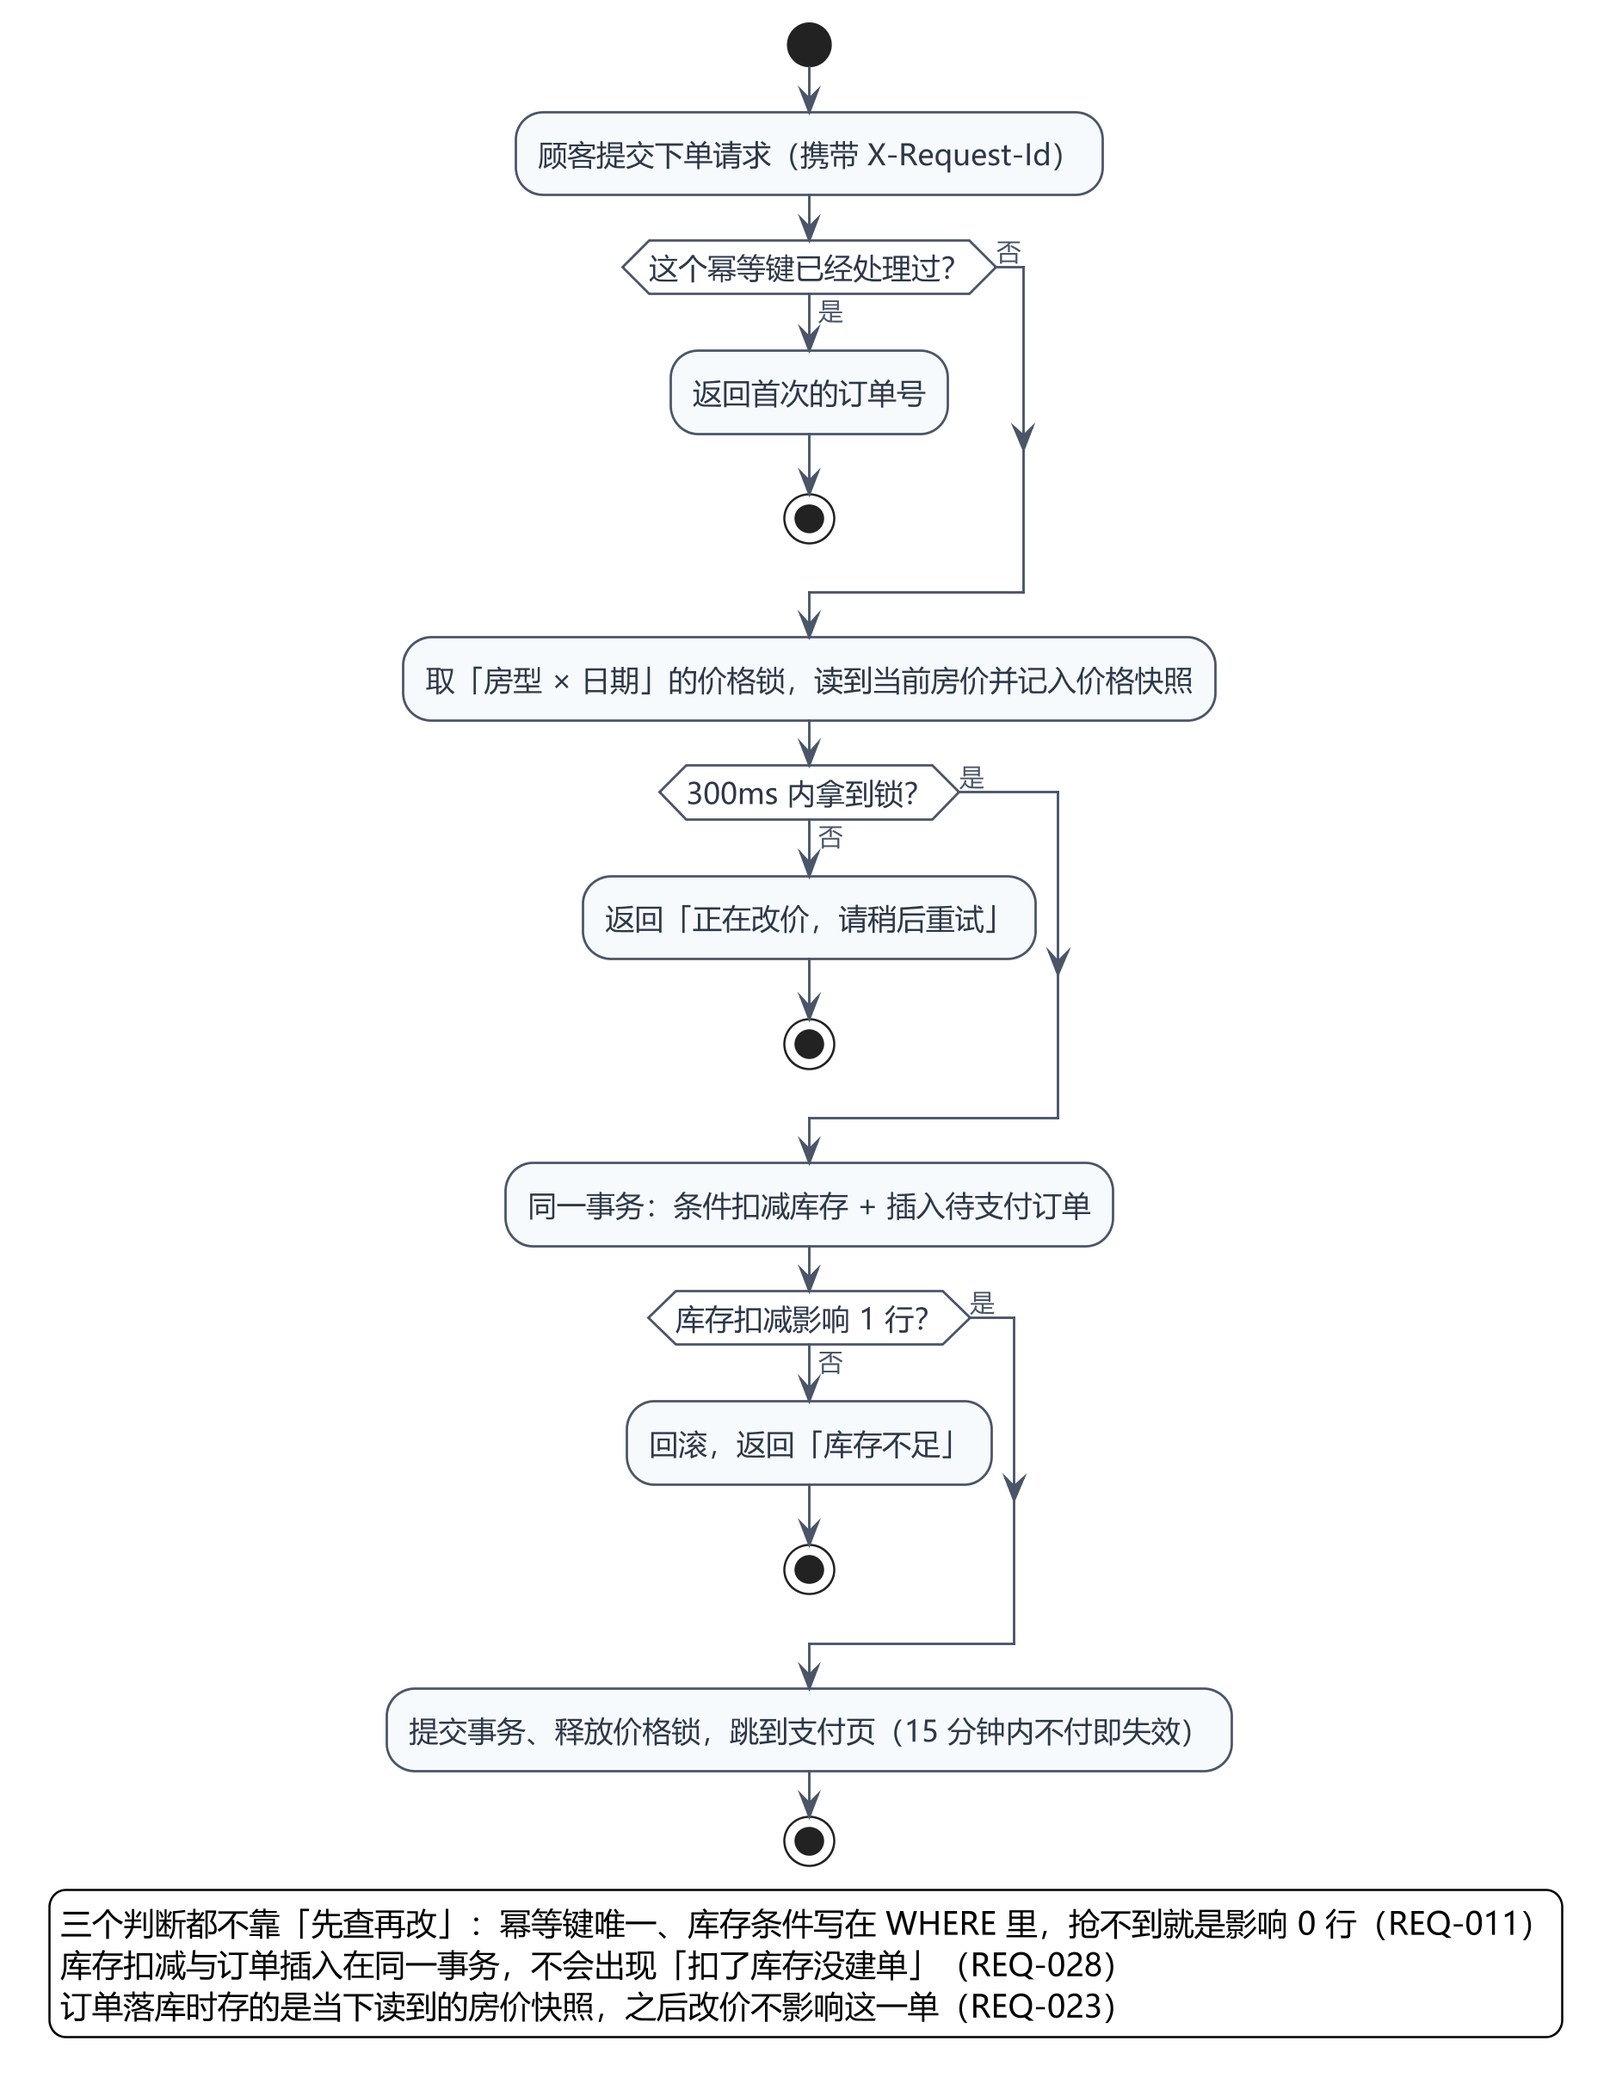
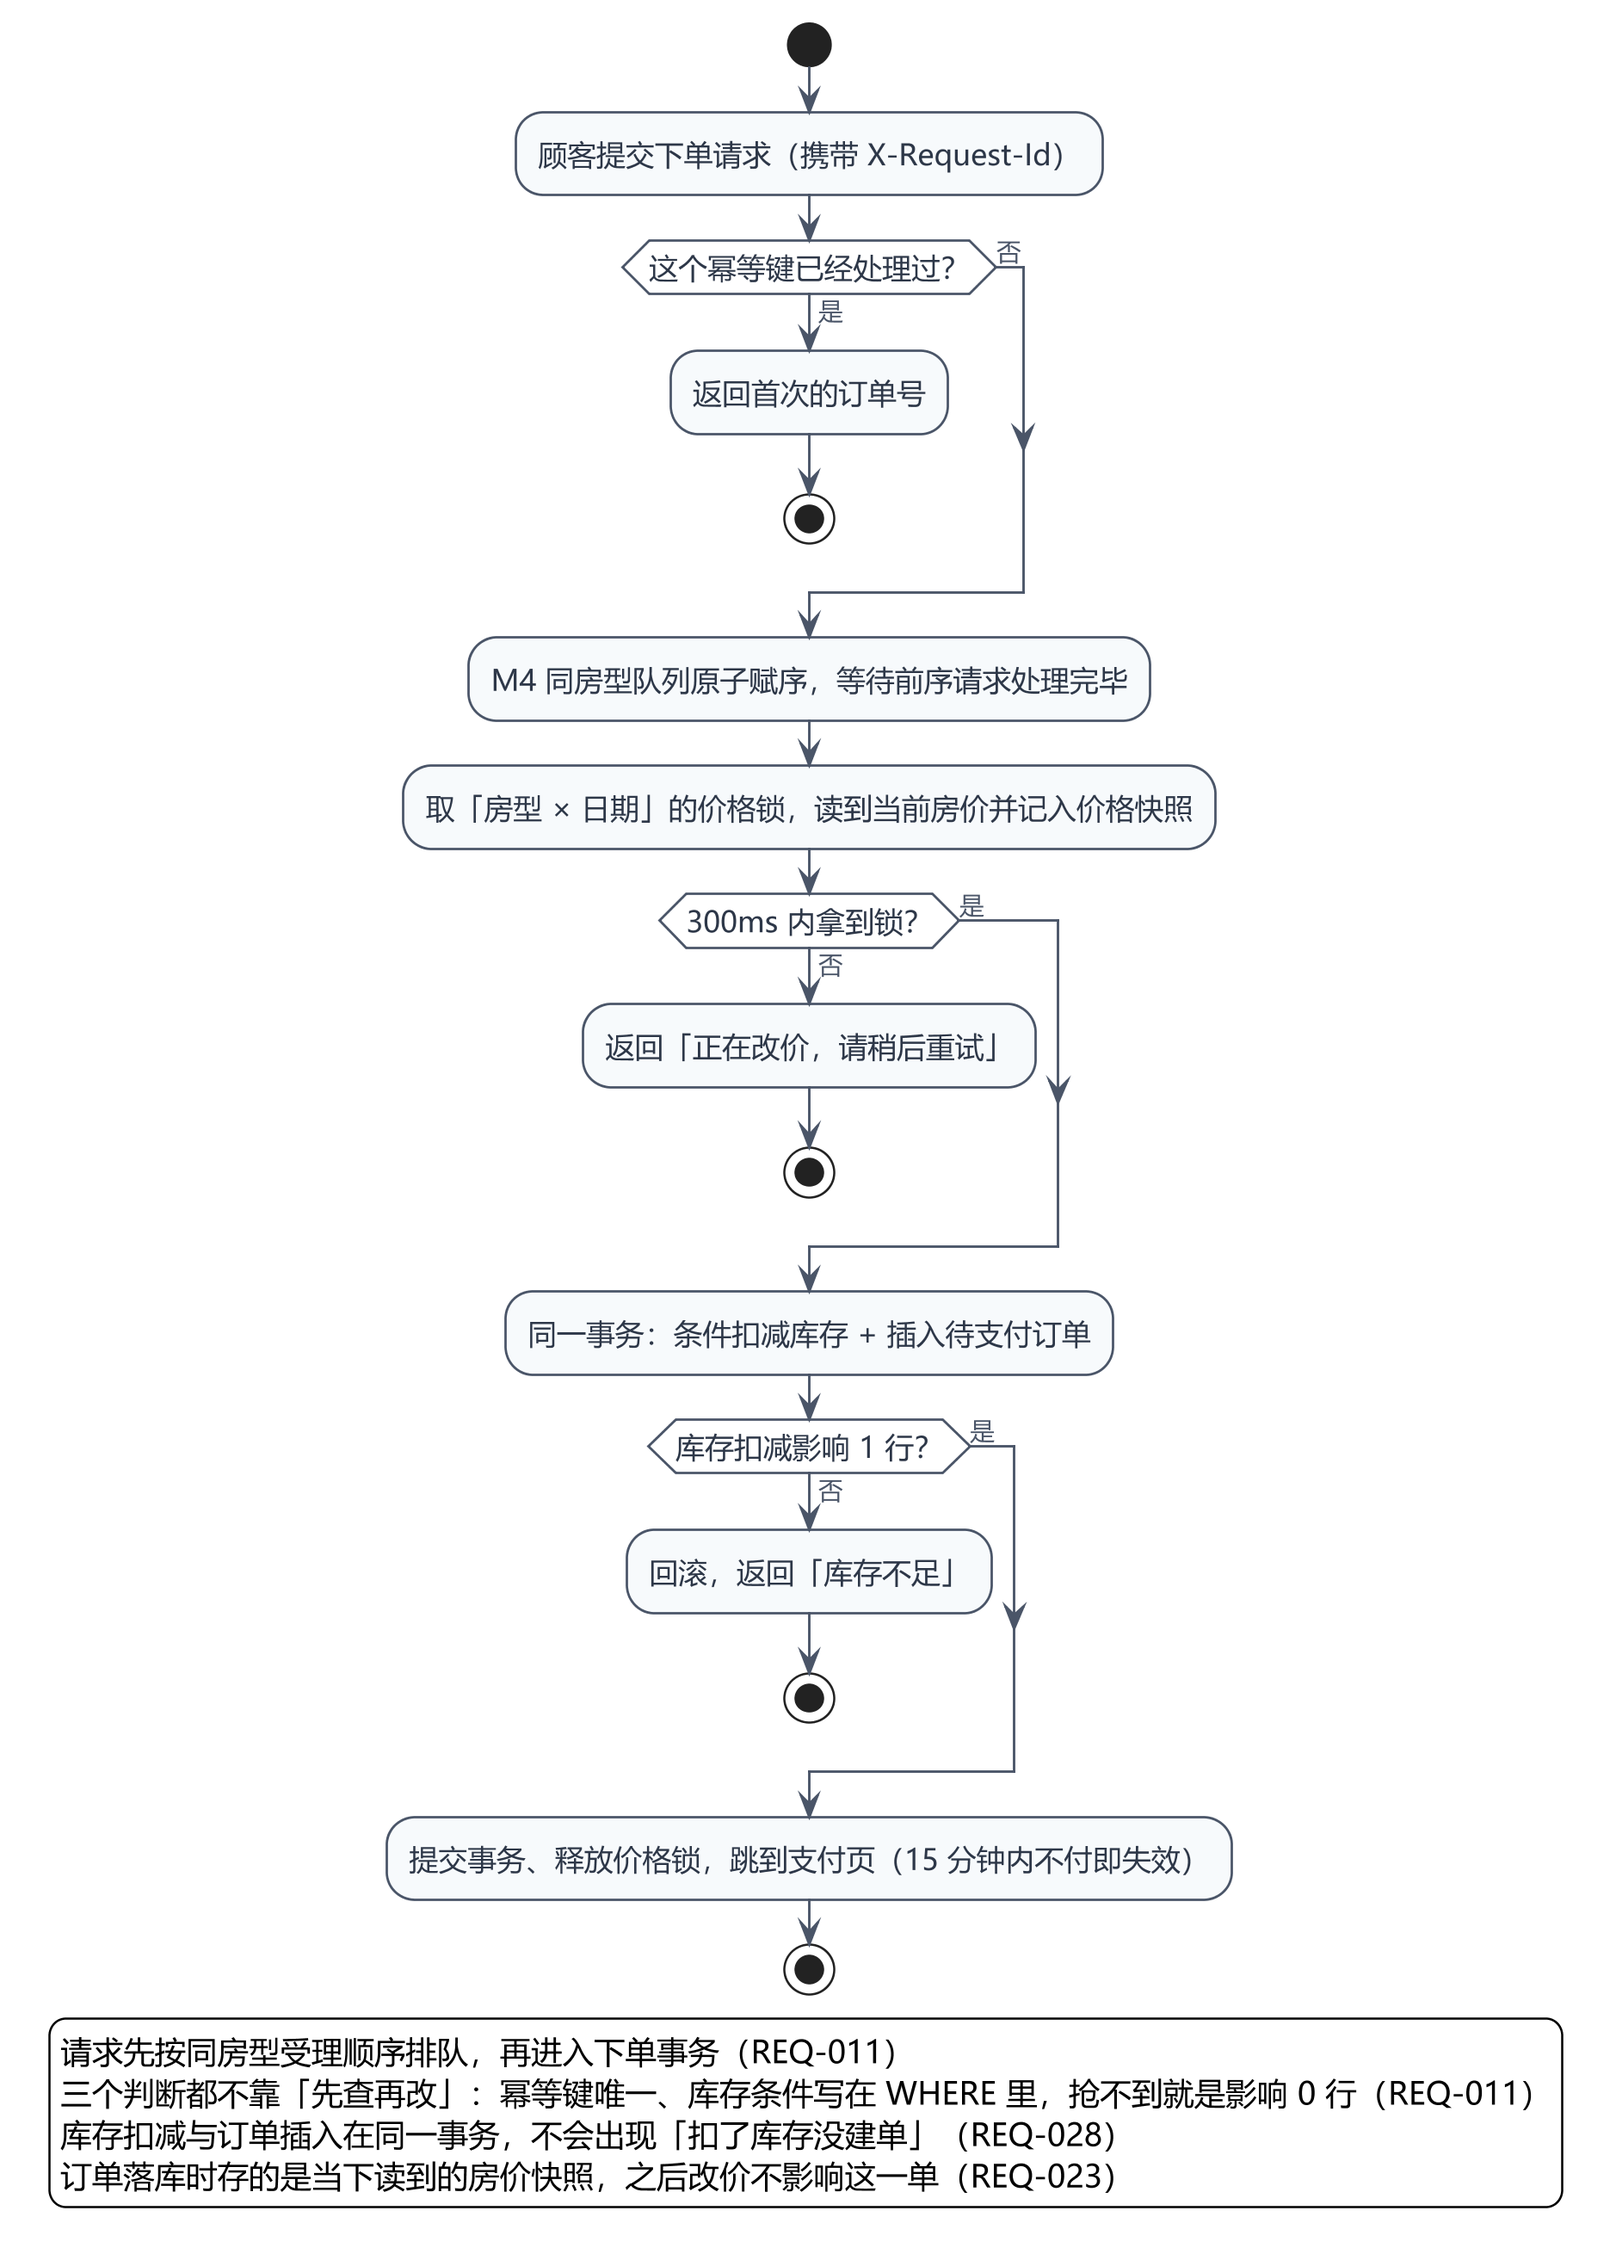
接手完成请求排序与线下开单价格修改
- 重出 11 屏界面：两晚逐晚计价，2 间合计 ¥1,852
- 第 5.6 节四张时序图改为固定位置，避免浮动体错序
- 并发抢房图加宽到 0.82，抵消新增泳道的字号缩小
- 报告重新编译为 58 页

Changed region(s): [[0.2471, 0.0309, 0.7412, 0.741], [0.0309, 0.7719, 0.9574, 0.9881], [0.6177, 0.1853, 0.6486, 0.2161]]

diff --git a/实验报告/ch5.tex b/实验报告/ch5.tex
@@ -163,16 +163,16 @@
 
 \subsection{交互图：四张时序图}
 
-\begin{figure}[htbp]
+\begin{figure}[H]
 \centering
-\includegraphics[width=0.68\textwidth]{../UML/UML时序图_并发抢房.png}
+\includegraphics[width=0.82\textwidth]{../UML/UML时序图_并发抢房.png}
 \caption{UML 时序图：并发抢房}
 \label{fig:seq1}
 \end{figure}
 
-并发抢房时，两个条件更新由数据库行锁串行处理；库存为 1 时仅一个请求扣减成功，失败请求不创建订单或支付单（REQ-011）。行锁获取顺序未必等于服务端接收顺序，当前设计只保证并发下不超卖；严格按接收时间排序仍需补充请求排序机制。
+并发抢房时，M4 在统一受理入口为同房型请求原子赋序，按序派发；前一请求完成后才处理下一请求。图中 RA 先于 RB 受理，因此先尝试扣减最后一间房。库存条件更新仍由 MySQL 执行，防止超卖；扣减失败的请求不创建订单或支付单（REQ-011）。这里的“收到提交”以受理入口赋序时刻为准，而非客户端点击时间。
 
-\begin{figure}[htbp]
+\begin{figure}[H]
 \centering
 \includegraphics[width=0.68\textwidth]{../UML/UML时序图_改价互斥.png}
 \caption{UML 时序图：改价与下单互斥}
@@ -181,7 +181,7 @@
 
 改价锁按「房型 $\times$ 日期」设置，覆盖读旧价、写新价和提交。等待超过 300 ms 时返回重试提示，不创建订单（REQ-012）。
 
-\begin{figure}[htbp]
+\begin{figure}[H]
 \centering
 \includegraphics[width=0.77\textwidth]{../UML/UML时序图_支付回调.png}
 \caption{UML 时序图：支付回调的三种落点}
@@ -197,7 +197,7 @@
 \end{itemize}
 
 
-\begin{figure}[htbp]
+\begin{figure}[H]
 \centering
 \includegraphics[width=0.72\textwidth]{../UML/UML时序图_超时释放与对账.png}
 \caption{UML 时序图：超时释放与每日对账}

diff --git a/实验报告/ch7.tex b/实验报告/ch7.tex
@@ -110,7 +110,7 @@ U-07 & 数据库表结构起草 & 第 4 章的 22 张表与约束说明 & 初稿
 
 \textbf{AI 生成结果。} 我把需求、设计图和讨论结论提供给 AI，由它辅助起草各章 TeX 文字、整理图表与需求的对应关系，并编译报告。初稿基本覆盖了要求，但有教学式铺垫、重复解释和个别跨章数据、引用不一致的问题。
 
-\textbf{校对、整改与我的理解。} 我逐章对照需求和图稿，指出架构说明过长、类图说明像在教读者看图、第 6 章配色参数与实验内容关系不大，要求 AI 删改。报告也写入我在讨论中形成的判断：下单先占「房型 $\times$ 日期」库存，入住前才分配具体房间；条件更新能防止最后一间房超卖，却不能保证严格按请求到达顺序成交。这些边界在第 3--5 章分别说明。
+\textbf{校对、整改与我的理解。} 我逐章对照需求和图稿，指出架构说明过长、类图说明像在教读者看图、第 6 章配色参数与实验内容关系不大，要求 AI 删改。报告也写入我在讨论中形成的判断：下单先占「房型 $\times$ 日期」库存，入住前才分配具体房间；条件更新只能防超卖，同房型请求还须先赋序再依次处理，才能满足先到先得。这些边界在第 3--5 章分别说明。
 
 \textbf{优缺点与修改结果。} AI 能较快形成完整初稿并查找跨章不一致；它也容易写出空泛的解释，批量压缩时可能删掉业务条件。修改后的报告保留具体设计决定、图表和需求依据；文字是否准确仍以实验一需求及最终图稿核对。
 

diff --git a/_过程材料/AI使用记录.md b/_过程材料/AI使用记录.md
@@ -216,3 +216,13 @@
 - **讨论与判断**：先核对时间戳，确认店长用例图 PNG（20:52）确实早于 puml（20:54），属实际错误，立即重出。其余逐条核对后修复；「未到店→已取消」依据 REQ-021 的前置条件与 REQ-022 的说明补入。
 - **修改优化后的结果**：重出店长用例图与类图；订单状态图补一条转换并同步转换表；支付回调活动图补「订单不存在→待对账」；`orders` 补可空 `pay_no` 唯一列；类图占房记录改按晚、补片区—用户关联、审计日志补操作人与来源字段；第 6、7 章写明最后一轮 9 屏由无头浏览器重出；第 7 章提交表补到 11 次；16 屏删除「区间外特批」，改为超区间拒绝。报告 57 页。
 - **优缺点分析**：这次评审在读图受限的情况下仍靠时间戳和源文件发现了 PNG 未同步的问题，说明核对应同时看内容与文件时间。其行号引用这次基本准确，但个别行仍与实际有偏差，仍需按内容复核。
+
+---
+
+### R-09 接手未完成的修改：请求排序与线下开单价格
+
+- **时间**：2026-11-09
+- **使用场景与输入**：上一轮会话在改完 UML 与正文、准备重出 11 屏界面时中断。本轮接手时确认：UML 与正文已改，11 屏 HTML 已改价格，但 11 屏 PNG、报告 PDF 与提交包均未更新。
+- **已完成的判断**：REQ-011 要求按服务端收到提交的顺序分配最后一间房，为此在 M4 统一受理入口增加同房型请求原子赋序与按序派发，保留数据库条件更新作为防超卖兜底；线下开单两晚按 10-31 ¥428 + 11-01 ¥498 逐晚计价，2 间合计 ¥1,852。
+- **本轮实际改动**：由 `_过程材料/_ui/f11_walkin.html` 重出 11 屏 PNG；把第 5.6 节四张时序图改为 `[H]` 固定顺序，避免图 13 落在图 12 的说明中间；并发抢房图宽度由 0.68 调到 0.82，抵消新增泳道带来的字号缩小；重新编译报告（58 页）并按新版本重打提交包。
+- **优缺点分析**：固定浮动位置换来图文相邻，代价是每张时序图独占一页并留白；把图缩小到两图一页会让泳道文字不可读，因此选择保留字号。

diff --git a/_过程材料/UI设计规格书.md b/_过程材料/UI设计规格书.md
@@ -725,8 +725,8 @@ KPI 行 5 卡
 
 **底部金额条**：
 ```
-房费 ¥428 × 2 间 × 2 晚 · 超限待审批
-价格取自今日房价日历，开单后锁定，后续改价不影响本单     ¥1,712.00
+房费 (10-31 ¥428 + 11-01 ¥498) × 2 间 · 超出线下额度，本单被拒绝
+价格按各入住晚次从房价日历取得，成功开单后锁定，后续改价不影响本单     ¥1,852.00
                                           [存草稿] [提交并申请审批]
 ```
 
